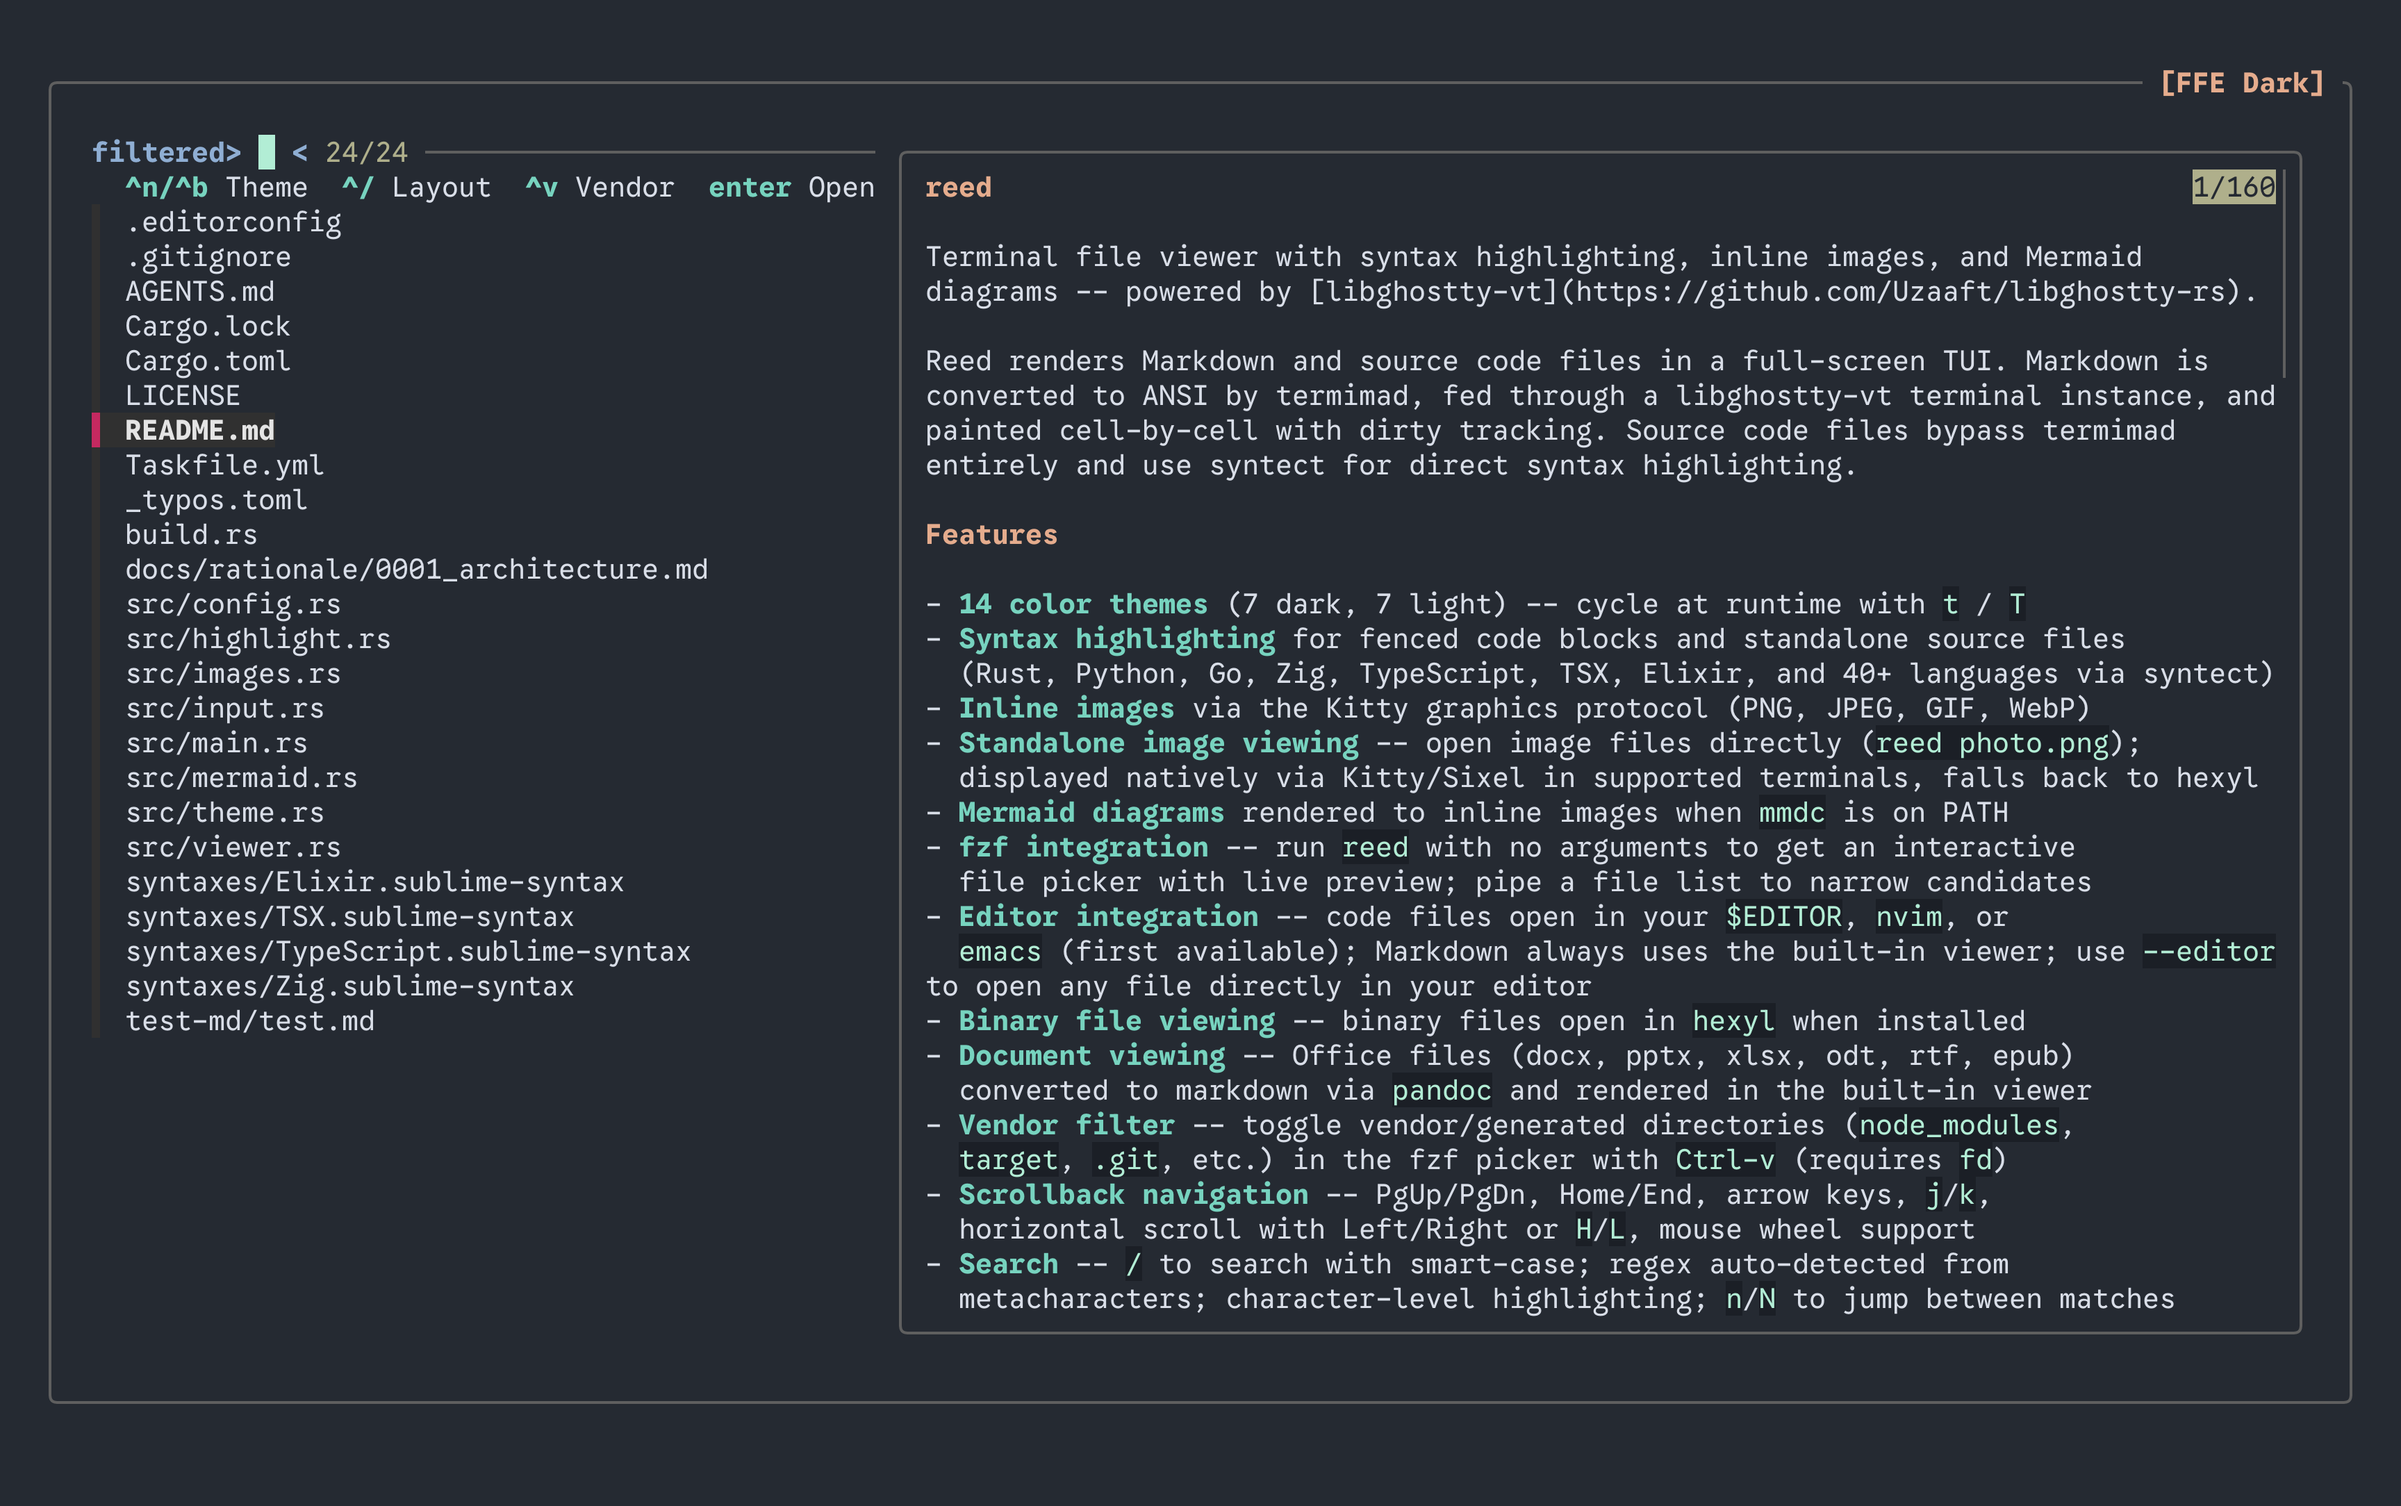
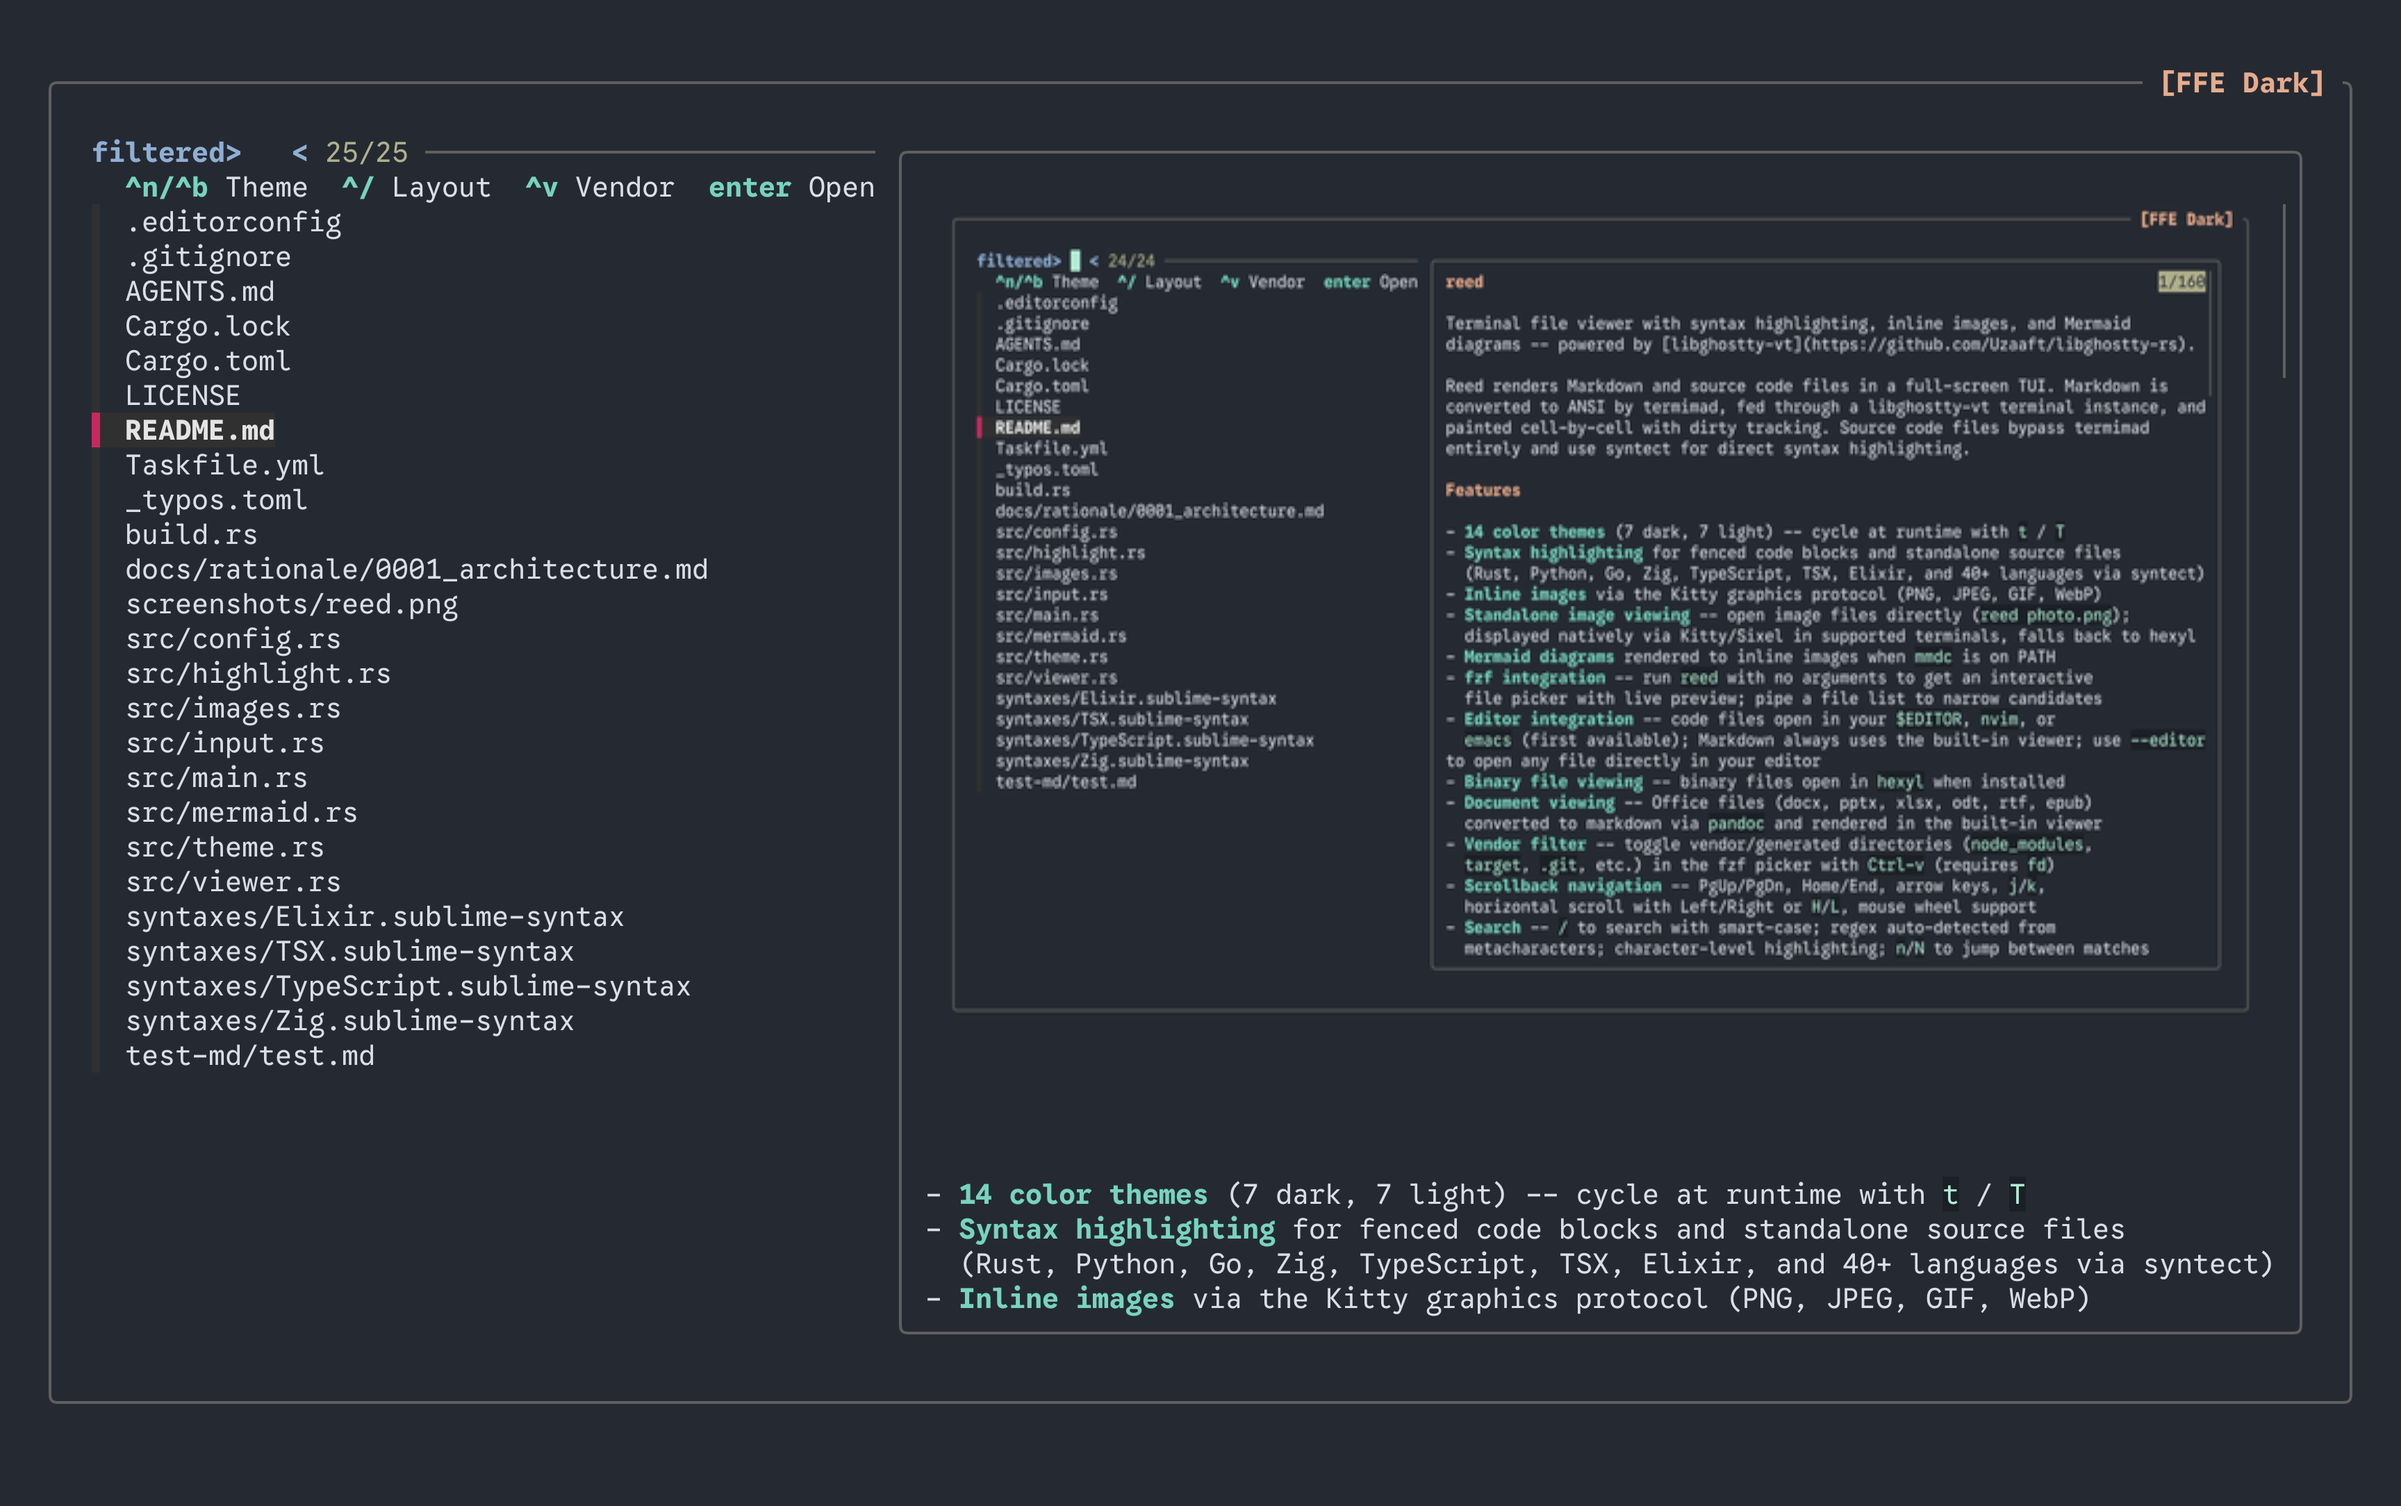
feat: display inline images in preview mode via Kitty/Sixel protocol
The preview() function (used by fzf --preview) was not processing
markdown image references — it rendered ![alt](path) as text instead
of displaying the actual image. Add base_dir parameter for resolving
relative image paths, extract image refs, replace with placeholders,
and emit Kitty/Sixel graphics sequences at the correct positions.

Also fixes clippy pedantic if_not_else, adds missing cast annotations
in sixel emitter, and uses wrapping_add for frame counter to prevent
debug-mode overflow panic.

Changed region(s): [[0.375, 0.0927, 0.9688, 0.8653], [0.0625, 0.4018, 0.2812, 0.7108], [0.0938, 0.0927, 0.125, 0.1236]]

diff --git a/src/viewer.rs b/src/viewer.rs
@@ -147,7 +147,14 @@ pub fn print_to_stdout(markdown: &str) {
 ///
 /// Respects `FZF_PREVIEW_COLUMNS` / `FZF_PREVIEW_LINES` for width/height.
 /// When `start_line` is set, output begins at that 1-indexed line.
-pub fn preview(markdown: &str, theme_name: Option<&str>, start_line: Option<usize>) -> Result<()> {
+///
+/// `base_dir` is used to resolve relative image paths in `![alt](path)` references.
+pub fn preview(
+    markdown: &str,
+    theme_name: Option<&str>,
+    start_line: Option<usize>,
+    base_dir: &Path,
+) -> Result<()> {
     // Resolve theme: CLI flag > saved preference (Ghostty-aware) > default.
     let prefs = config::load_preferences();
     let name = config::resolve_theme_name(theme_name, &prefs);
@@ -160,9 +167,38 @@ pub fn preview(markdown: &str, theme_name: Option<&str>, start_line: Option<usiz
         .or_else(|| terminal::size().ok().map(|(c, _)| usize::from(c)))
         .unwrap_or(80);
 
-    let skin = theme::build_skin(theme);
+    // Detect graphics protocol and extract images if supported.
+    let gfx = detect_graphics_protocol();
+    let has_graphics = gfx != GraphicsProtocol::None;
+
+    let image_refs = if has_graphics {
+        images::extract_images(markdown, base_dir)
+    } else {
+        Vec::new()
+    };
+
+    let (cell_w, cell_h) = images::cell_size_px();
+    #[allow(clippy::cast_possible_truncation)]
+    let inner_cols = width.min(u16::MAX as usize) as u16;
+
+    // Build processed markdown: replace image lines with placeholders.
     let highlighted = highlight::highlight_code_blocks(markdown, theme.bg);
-    let joined = join_paragraphs(&highlighted);
+    let (processed, placements) = if image_refs.is_empty() {
+        (highlighted, Vec::new())
+    } else {
+        build_processed_markdown(
+            &highlighted,
+            &image_refs,
+            &[], // no mermaid blocks in preview
+            &[], // no rendered mermaids in preview
+            inner_cols,
+            cell_w,
+            cell_h,
+        )
+    };
+
+    let skin = theme::build_skin(theme);
+    let joined = join_paragraphs(&processed);
     let rendered = skin.text(&joined, Some(width)).to_string();
 
     // Output all lines — fzf handles scrolling internally.
@@ -170,10 +206,42 @@ pub fn preview(markdown: &str, theme_name: Option<&str>, start_line: Option<usiz
     let start_offset = start_line.unwrap_or(1).saturating_sub(1);
 
     let mut stdout = io::stdout().lock();
-    for line in lines.iter().skip(start_offset) {
+    for (i, line) in lines.iter().enumerate().skip(start_offset) {
         writeln!(stdout, "{line}")?;
+
+        // Emit inline images at their placeholder positions.
+        // The output line index (after start_offset) corresponds to the
+        // content row in the rendered text.
+        if has_graphics {
+            for placement in &placements {
+                if i == placement.content_row {
+                    // Flush text before emitting the image escape sequence.
+                    stdout.flush()?;
+                    match gfx {
+                        GraphicsProtocol::Kitty => {
+                            images::emit_kitty_image(
+                                &mut stdout,
+                                &placement.png_data,
+                                placement.cols,
+                                placement.rows,
+                            )?;
+                        }
+                        GraphicsProtocol::Sixel => {
+                            images::emit_sixel_image(
+                                &mut stdout,
+                                &placement.png_data,
+                                placement.cols,
+                                placement.rows,
+                            )?;
+                        }
+                        GraphicsProtocol::None => {}
+                    }
+                }
+            }
+        }
     }
 
+    stdout.flush()?;
     Ok(())
 }
 
@@ -1358,7 +1426,7 @@ fn run_inner_loop<'a>(
         // ── Handle input ─────────────────────────────────────────
         // Check for file changes periodically.
         // In follow mode, check every ~6 frames (~100ms); otherwise ~60 frames (~1s).
-        frame_count += 1;
+        frame_count = frame_count.wrapping_add(1);
         let check_interval = if follow_mode { 6 } else { 60 };
         if frame_count.is_multiple_of(check_interval)
             && let Some(path) = file_path

diff --git a/src/main.rs b/src/main.rs
@@ -150,7 +150,7 @@ fn main() -> Result<()> {
             viewer::print_to_stdout(&markdown);
             return Ok(());
         } else if cli.preview {
-            return viewer::preview(&markdown, cli.theme.as_deref(), cli.line);
+            return viewer::preview(&markdown, cli.theme.as_deref(), cli.line, &base_dir);
         }
         return viewer::run(
             &markdown,
@@ -247,7 +247,7 @@ fn main() -> Result<()> {
         }
     } else if cli.preview {
         if is_markdown {
-            viewer::preview(&raw_content, cli.theme.as_deref(), cli.line)
+            viewer::preview(&raw_content, cli.theme.as_deref(), cli.line, &base_dir)
         } else {
             viewer::preview_code(
                 &raw_content,
@@ -317,7 +317,12 @@ fn view_stdin(
     }
 
     if preview {
-        return viewer::preview(&content, theme, line);
+        return viewer::preview(
+            &content,
+            theme,
+            line,
+            &std::env::current_dir().unwrap_or_else(|_| PathBuf::from(".")),
+        );
     }
 
     // Interactive mode: we need to reopen the TTY for crossterm since

diff --git a/src/images.rs b/src/images.rs
@@ -493,6 +493,7 @@ pub fn emit_sixel_image<W: Write>(
     }
 
     // Emit sixel data, 6 rows at a time.
+    #[allow(clippy::cast_possible_truncation)] // u32 width always fits in usize
     let w_usize = width as usize;
     for band_y in (0..height).step_by(6) {
         // For each color in the palette, emit a row of sixel characters.
@@ -510,6 +511,7 @@ pub fn emit_sixel_image<W: Write>(
                 for bit in 0..6u32 {
                     let y = band_y + bit;
                     if y < height {
+                        #[allow(clippy::cast_possible_truncation)] // u32 fits in usize
                         let idx = (y as usize) * w_usize + x;
                         if indices[idx] == color_idx_u8 {
                             sixel_bits |= 1 << bit;
